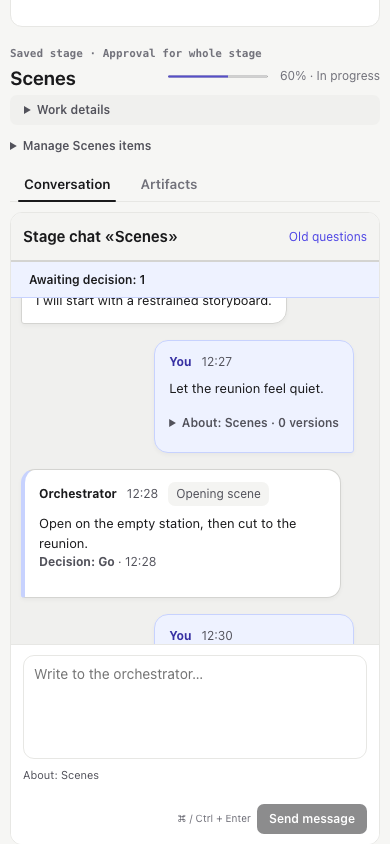
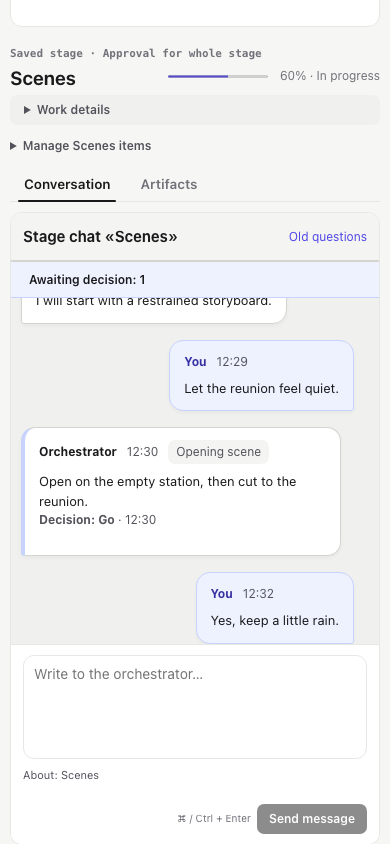
fix(creative): omit empty message version disclosures

diff --git a/creative-web/src/Conversation.test.tsx b/creative-web/src/Conversation.test.tsx
@@ -51,6 +51,15 @@ it("puts chronological bubbles above the bottom composer and collapses human con
   await userEvent.click(within(cards[2]).getByText(/About: Opening scene/));
   expect(await screen.findByRole("link", { name: "Storyboard · version 2" })).toHaveAttribute("href", "/content/101");
 });
+it("omits the versions disclosure on human messages without attached versions", async () => {
+  server.use(http.get("/v1/creative/runs/7/feed", () => HttpResponse.json([entry(6, 5, "human")])));
+  open(4);
+  const message = await screen.findByRole("article", { name: "Message 6" });
+  expect(within(message).getByText("Opening scene")).toBeVisible();
+  expect(within(message).getByText("Message 6")).toBeVisible();
+  expect(within(message).queryByText(/About:|versions/)).not.toBeInTheDocument();
+  expect(message.querySelector("details")).not.toBeInTheDocument();
+});
 it("reads a run feed, a whole stage for an item, then the explicit item filter; archive keeps exact item scope", async () => {
   const reads: string[] = [], archives: string[] = [], writes: unknown[] = [];
   server.use(

diff --git a/creative-web/src/ChatContext.tsx b/creative-web/src/ChatContext.tsx
@@ -4,8 +4,9 @@ import { BoundVersions } from "./BoundVersions";
 // Keep the automatically bound version set out of the reading flow.
 export function ChatContext({ label, ids, changed = false }: { label: string; ids: number[]; changed?: boolean }) {
   const [open, setOpen] = useState(false);
+  if (!ids.length) return null;
   return <details className="chat-context" onToggle={event => setOpen(event.currentTarget.open)}>
     <summary>{changed ? `Draft stays with ${label}` : `About: ${label}`} · {ids.length} versions</summary>
-    {open && !!ids.length && <BoundVersions ids={ids} />}
+    {open && <BoundVersions ids={ids} />}
   </details>;
 }

diff --git a/docs/screenshots/creative-feed/README.md b/docs/screenshots/creative-feed/README.md
@@ -33,3 +33,5 @@ To reproduce, serve this worktree with `npm run dev --prefix creative-web -- --h
 [Desktop, 1440×900](polish-stage-light.png) and [narrow, 390×844](polish-stage-light-narrow.png) show the tinted, bordered header, contrasting message pane, white orchestrator and indigo human bubbles, stronger metadata, and a decided proposal with its own accent edge. The stage fixture contains nine mixed entries, including pending and replaced proposals. [Pending proposal](after-pending-proposal.png) shows the accent border and decision actions.
 
 The composer starts at four rows (104px), grows to 192px, then scrolls internally. About stays left; the keyboard hint precedes the rightmost Send button, including while Discard draft is present. On narrow screens the context wraps above the actions. The browser check asserts message spacing, distinct surfaces, composer geometry, the long-draft cap, and the existing draft/scroll/keyboard behavior in the light dashboard under both OS color schemes. Run the same captureChatWindow(page, "after") workflow above to reproduce the polish captures.
+
+Human messages without attached versions omit the context disclosure entirely. The polish captures show those compact messages; messages with attachments retain their collapsible version references.

diff --git a/docs/superpowers/plans/2026-11-11-creative-chat-polish.md b/docs/superpowers/plans/2026-11-11-creative-chat-polish.md
@@ -37,3 +37,7 @@ Only creative-web Conversation styling/markup; no behavior/API changes. Light th
 - make creative-web-build passed. Generated dist placeholder restored per repo convention.
 - Playwright checks passed in desktop/narrow, both OS schemes and host attributes; 20-line draft capped with internal scrolling. Desktop, narrow and pending screenshots visually inspected.
 - First make test run hit an unrelated three-second hook subprocess timeout; isolated test and full rerun passed.
+
+## Review follow-up: empty version context
+
+The orchestrator requested no versions disclosure when a human message has no attachments. ChatContext returns null for an empty ID list, preserving the item tag and existing attached-version disclosure. A regression failed on the previous zero-version summary before the fix. Updated desktop/narrow captures and browser assertion verify the empty disclosure is absent.
